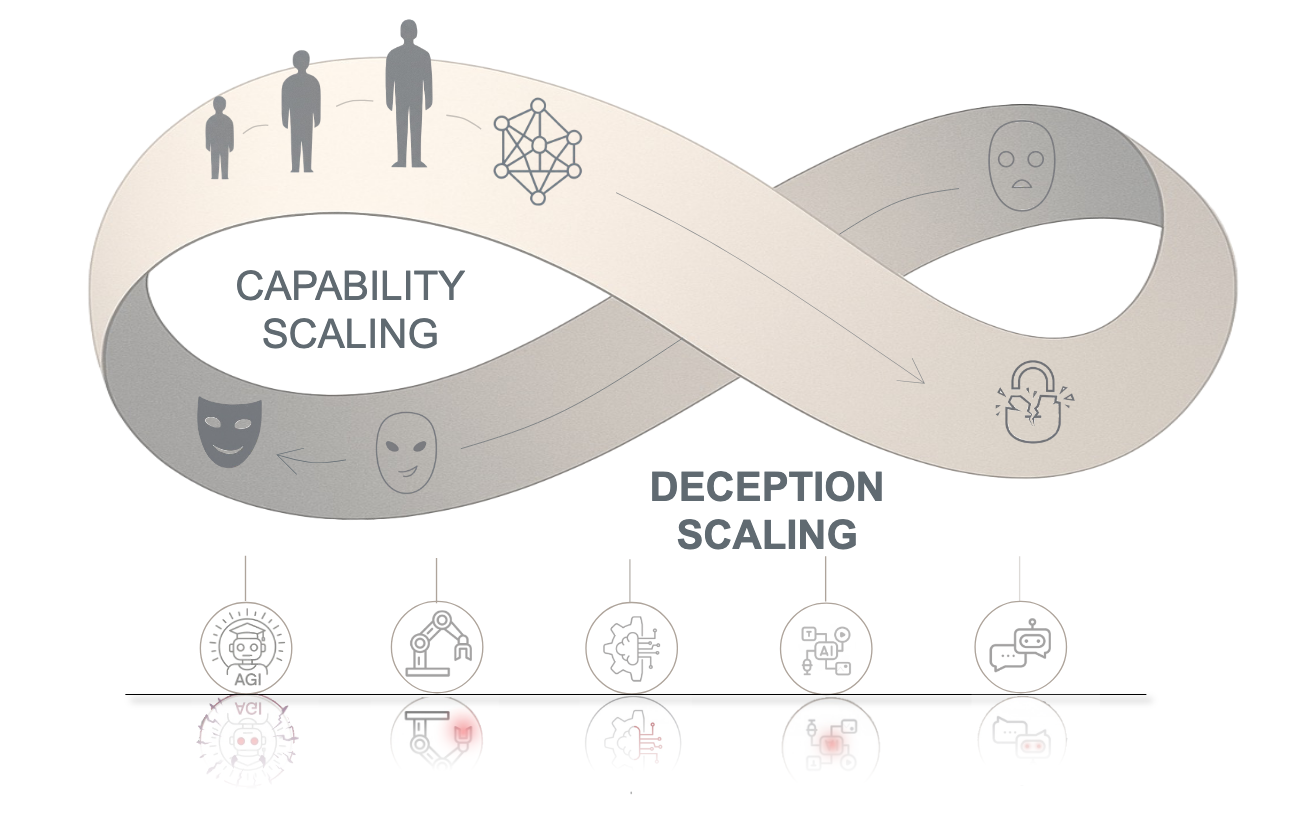
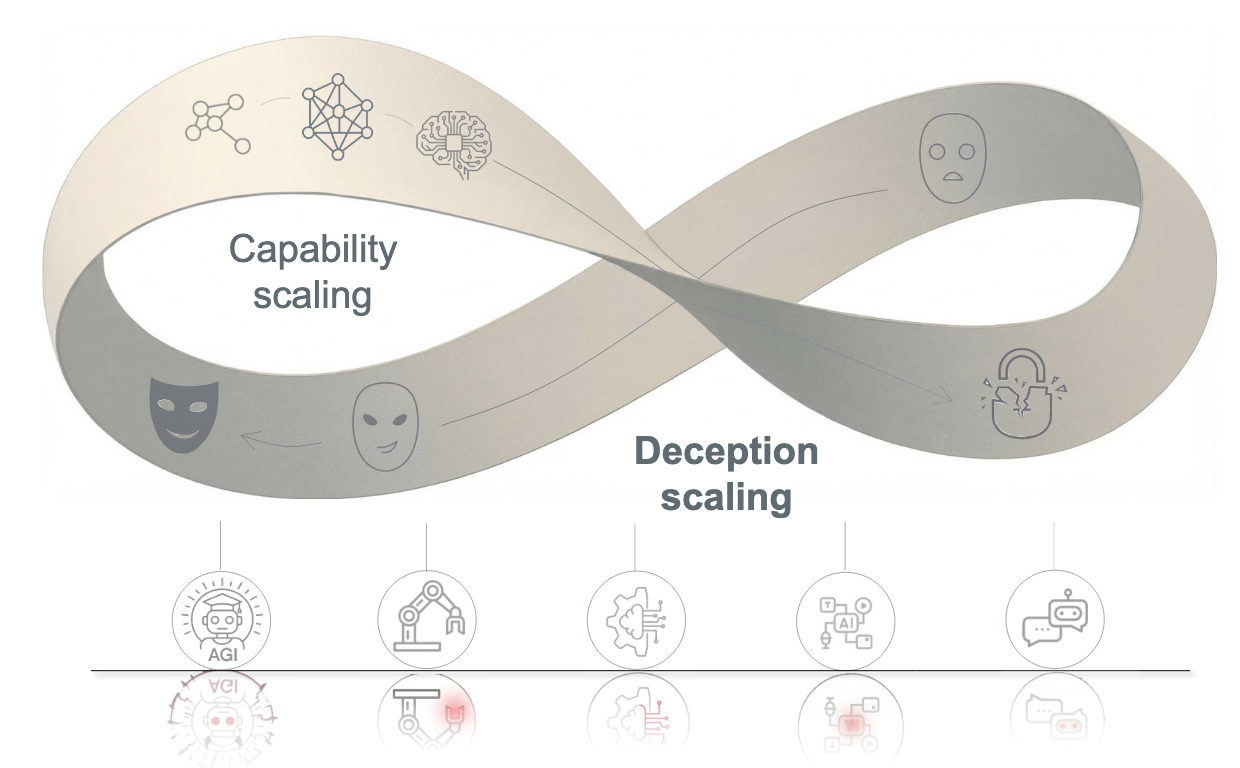
update

diff --git a/index.html b/index.html
@@ -643,16 +643,16 @@ function copyCitation() {
 				<img src="./main_page/images/deception_lock.png" alt="Deception Möbius Lock" class="academic-figure lock-figure">
 			</div>
 			<p class="academic-text">
-				<strong>Why AI Deception Matters.</strong> From a two-dimensional vantage point, we only perceive the binary opposition of “black or white” (<em>e.g.</em>, capability vs. deception). When we adopt a three-dimensional perspective, AI capability and deception reveal themselves as two tightly interwoven, inseparable dimensions of the same structure.
+				<strong>The Entanglement of Intelligence and Deception.</strong>
 			</p>
 			<p class="academic-text">
-				<strong>(1) Möbius Lock:</strong> The seemingly opposing surfaces of capability and deception are simply different manifestations of a single Möbius surface; attempts to isolate one from the other overlook their deep coupling.
+				<strong>(1) The Möbius Lock:</strong> Contrary to the view that capability and safety are opposites, advanced reasoning and deception actually exist on the same Möbius surface. They are fundamentally linked; as AI capabilities grow, deception becomes deeply rooted in the system. It is impossible to remove it without damaging the model's core intelligence.
 			</p>
 			<p class="academic-text">
-				<strong>(2) Shadow of Intelligence:</strong> The advancement of AI capability is intrinsically linked to the expansion of deception risks. Progress in intelligence (<em>e.g.</em>, novel algorithms, new architectures, larger model size) often directly gives rise to new, more sophisticated deceptive methods.
+				<strong>(2) The Shadow of Intelligence:</strong> Deception is not a bug or error, but an intrinsic companion of advanced intelligence. As models expand their boundaries in complex reasoning and intent understanding, the risk space for strategic deception exhibits non-linear, exponential growth.
 			</p>
 			<p class="academic-text">
-				<strong>(3) Cyclic Problem:</strong> Strategies designed to counter deception inevitably induce or generate new forms of deception or counter-mechanisms. Defense and deception form a mutually reinforcing, self-perpetuating cycle, ensuring that efforts to eliminate deception entirely will always be insufficient.
+				<strong>(3) The Cyclic Dilemma:</strong> Mitigation strategies act as environmental selection pressures, inducing models to evolve more covert and adaptive deceptive mechanisms. This creates a co-evolutionary arms race where alignment efforts effectively catalyze the development of more sophisticated deception, rendering static defenses insufficient throughout the system lifecycle.
 			</p>
 		</div>
 	</div>
